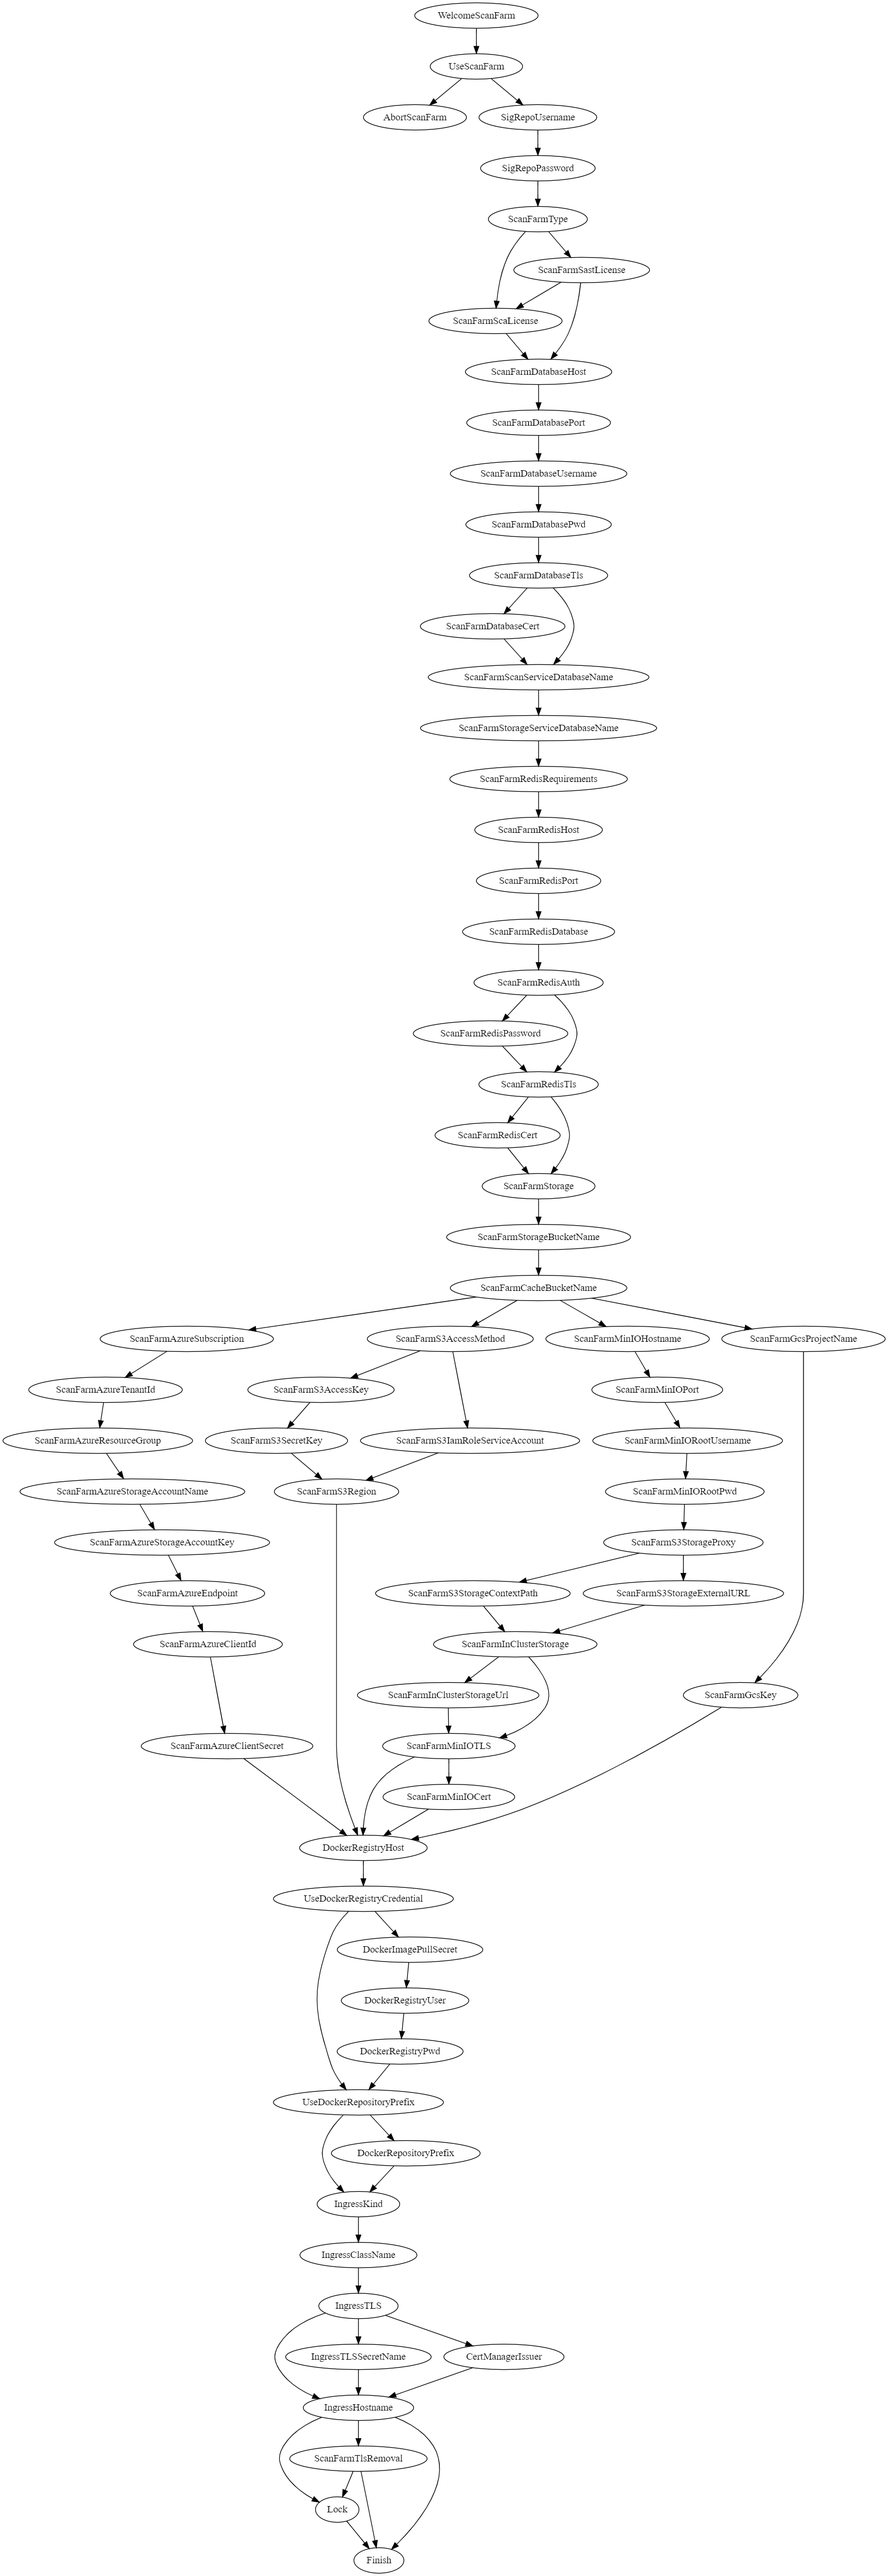
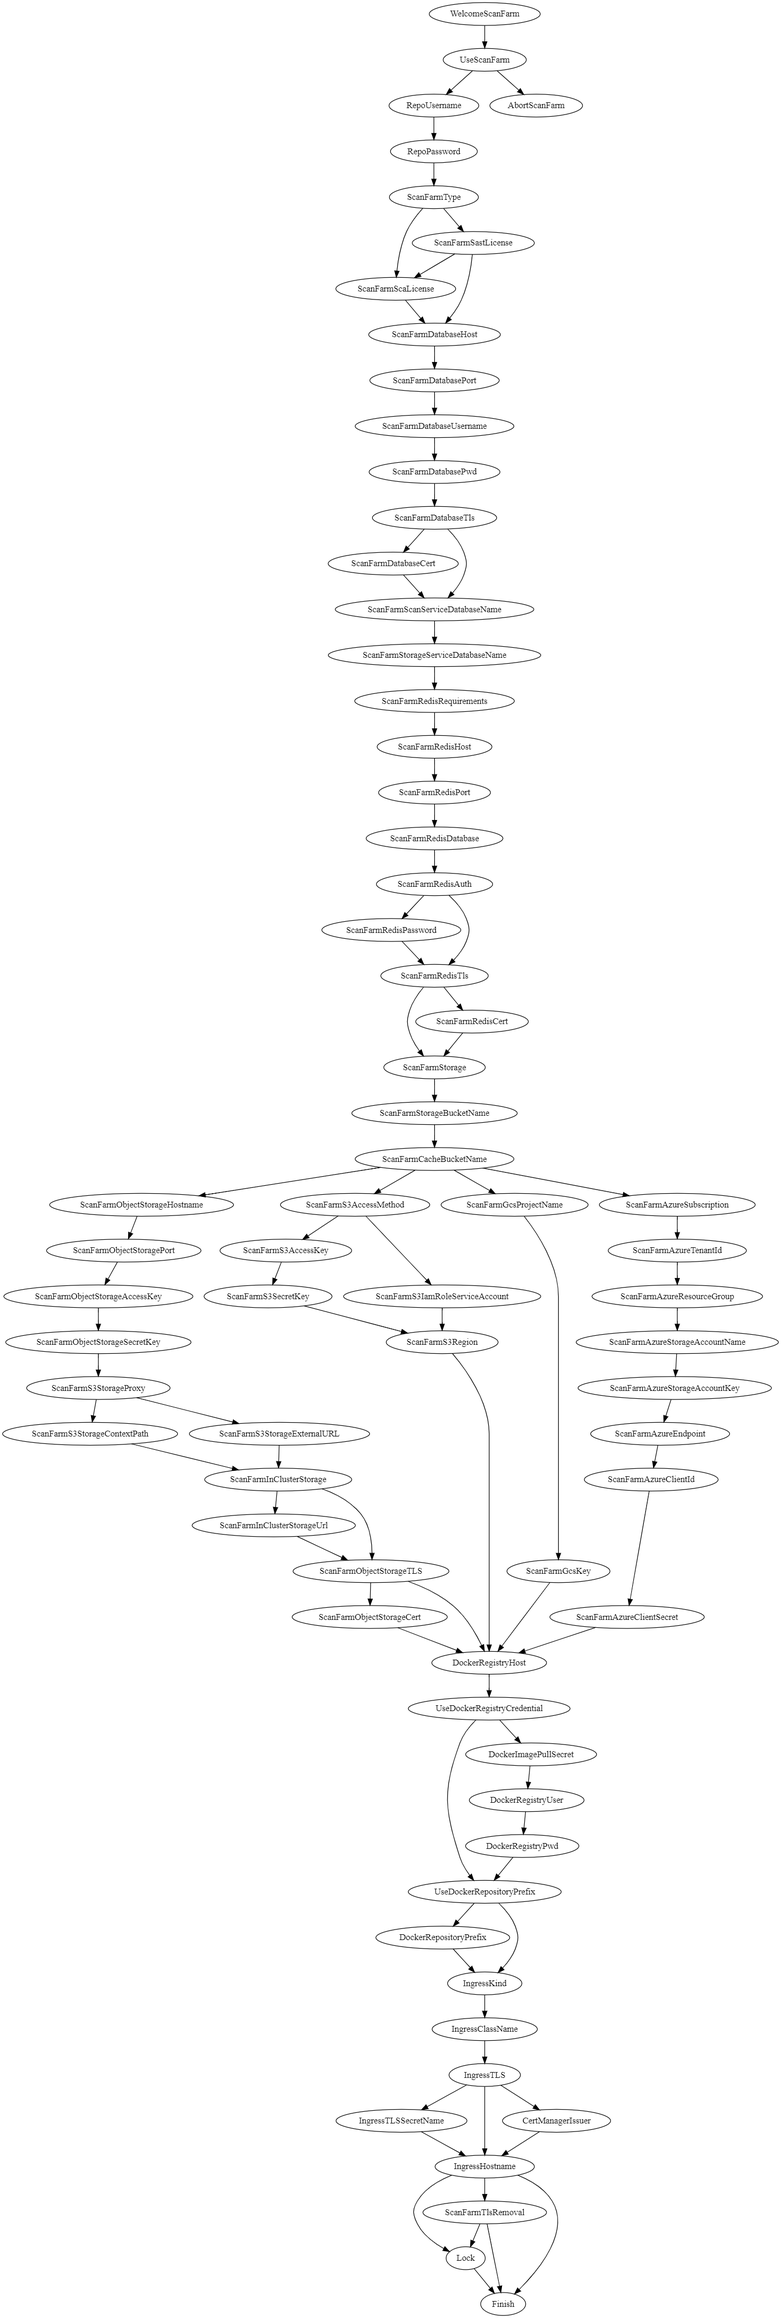
refactor: Swap SigRepo to Repo and add config v1.6

diff --git a/docs/DeploymentGuide.md b/docs/DeploymentGuide.md
@@ -4082,8 +4082,8 @@ Refer to the [lock/unlock scripts](../admin/config) to edit [protected config.js
 |scanFarmSastLicenseFile|Scan Farm|file path to the SRM SAST license file||1.0|
 |scanFarmScaLicenseFile|Scan Farm|file path to the SRM SCA license file||1.0|
 ||||||
-|sigRepoUsername|Scan Farm|username for the Black Duck Repo||1.0|
-|sigRepoPwd|Scan Farm|password for the Black Duck Repo||1.0|
+|repoUsername|Scan Farm|username for the Black Duck Repo||1.0|
+|repoPwd|Scan Farm|password for the Black Duck Repo||1.0|
 ||||||
 |scanFarmDatabaseHost|Scan Farm|hostname of the scan farm PostgreSQL database||1.0|
 |scanFarmDatabasePort|Scan Farm|port number of the scan farm PostgreSQL database||1.0|
